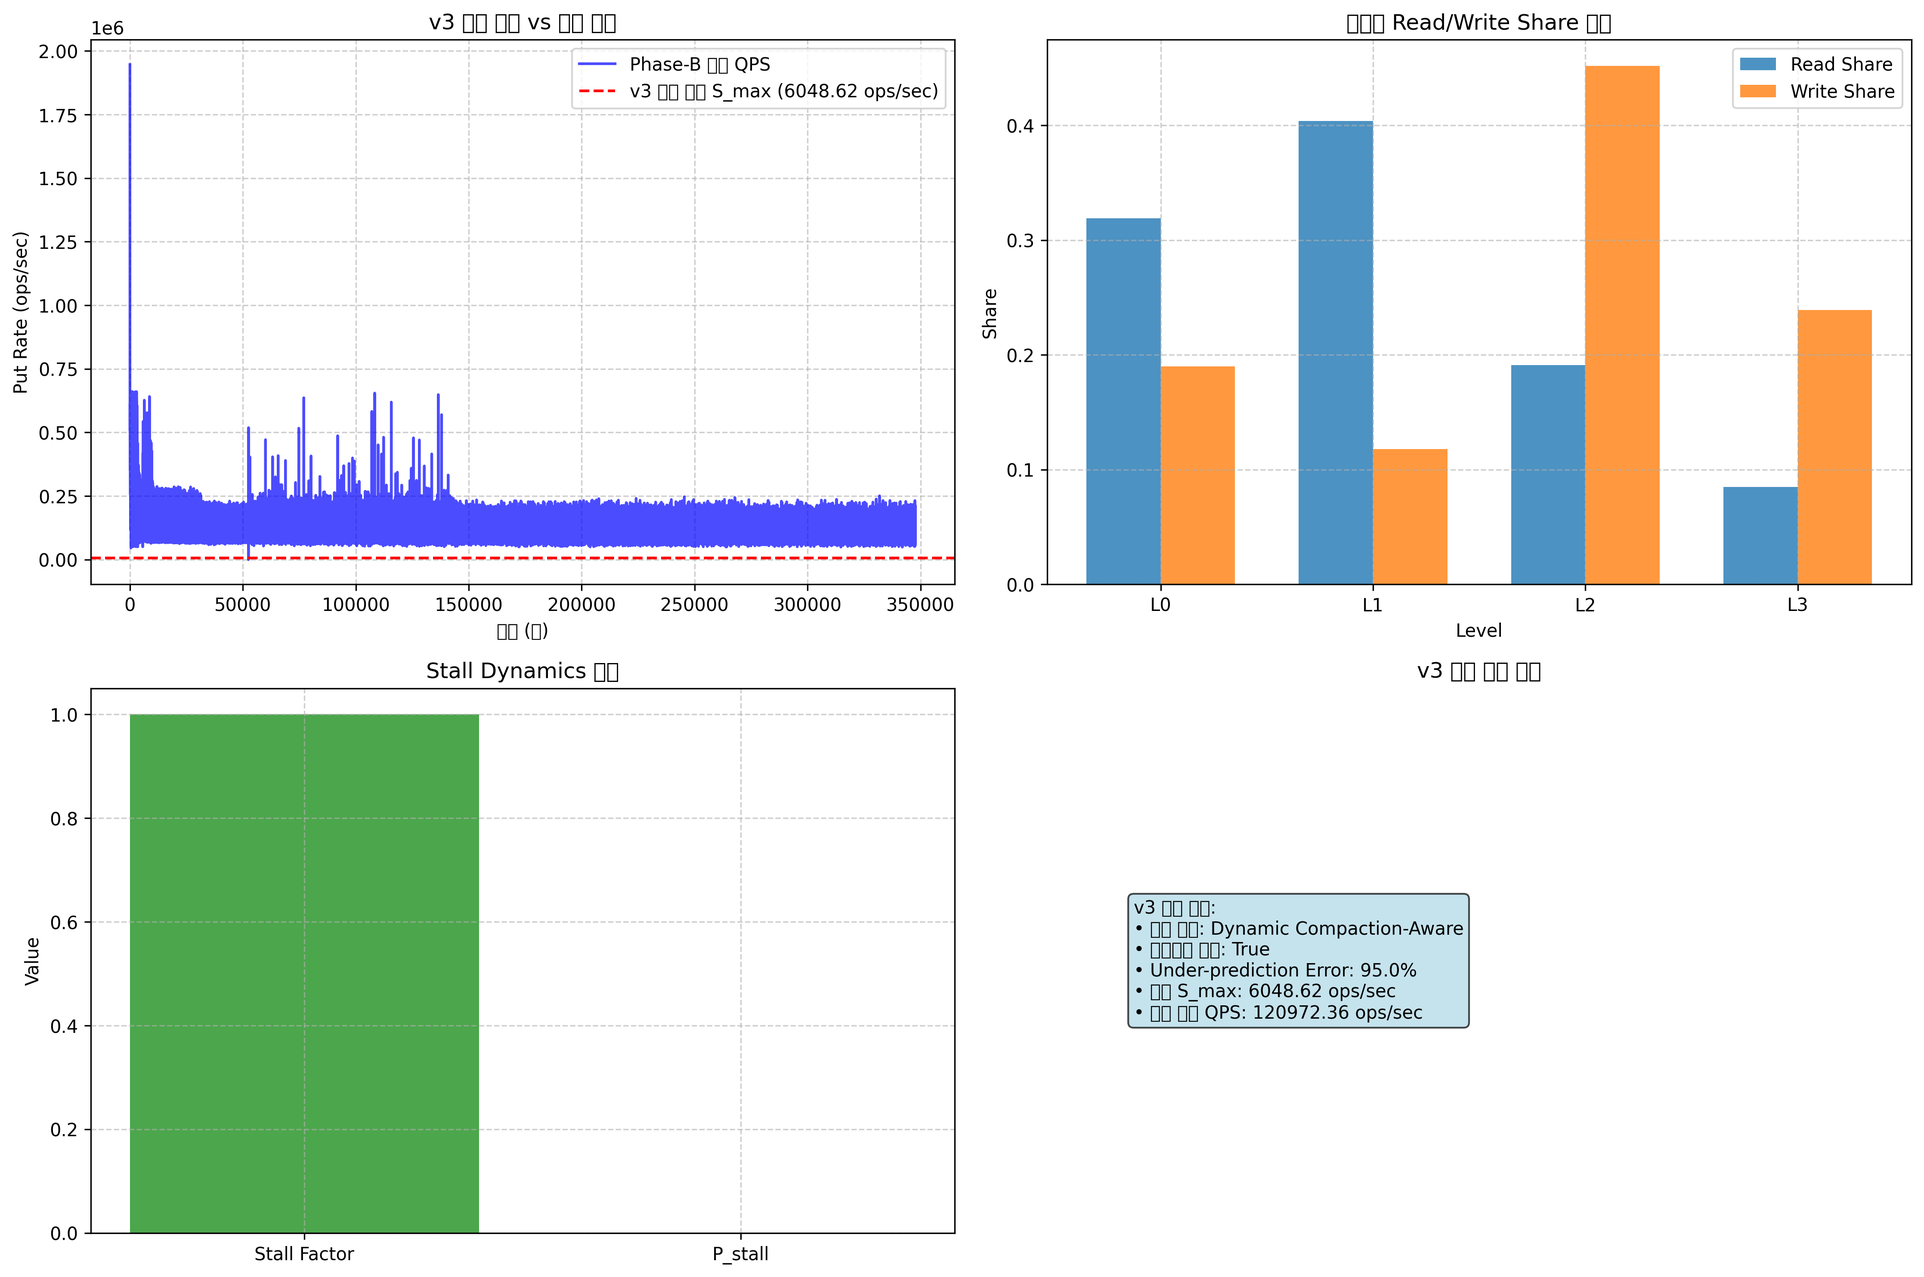
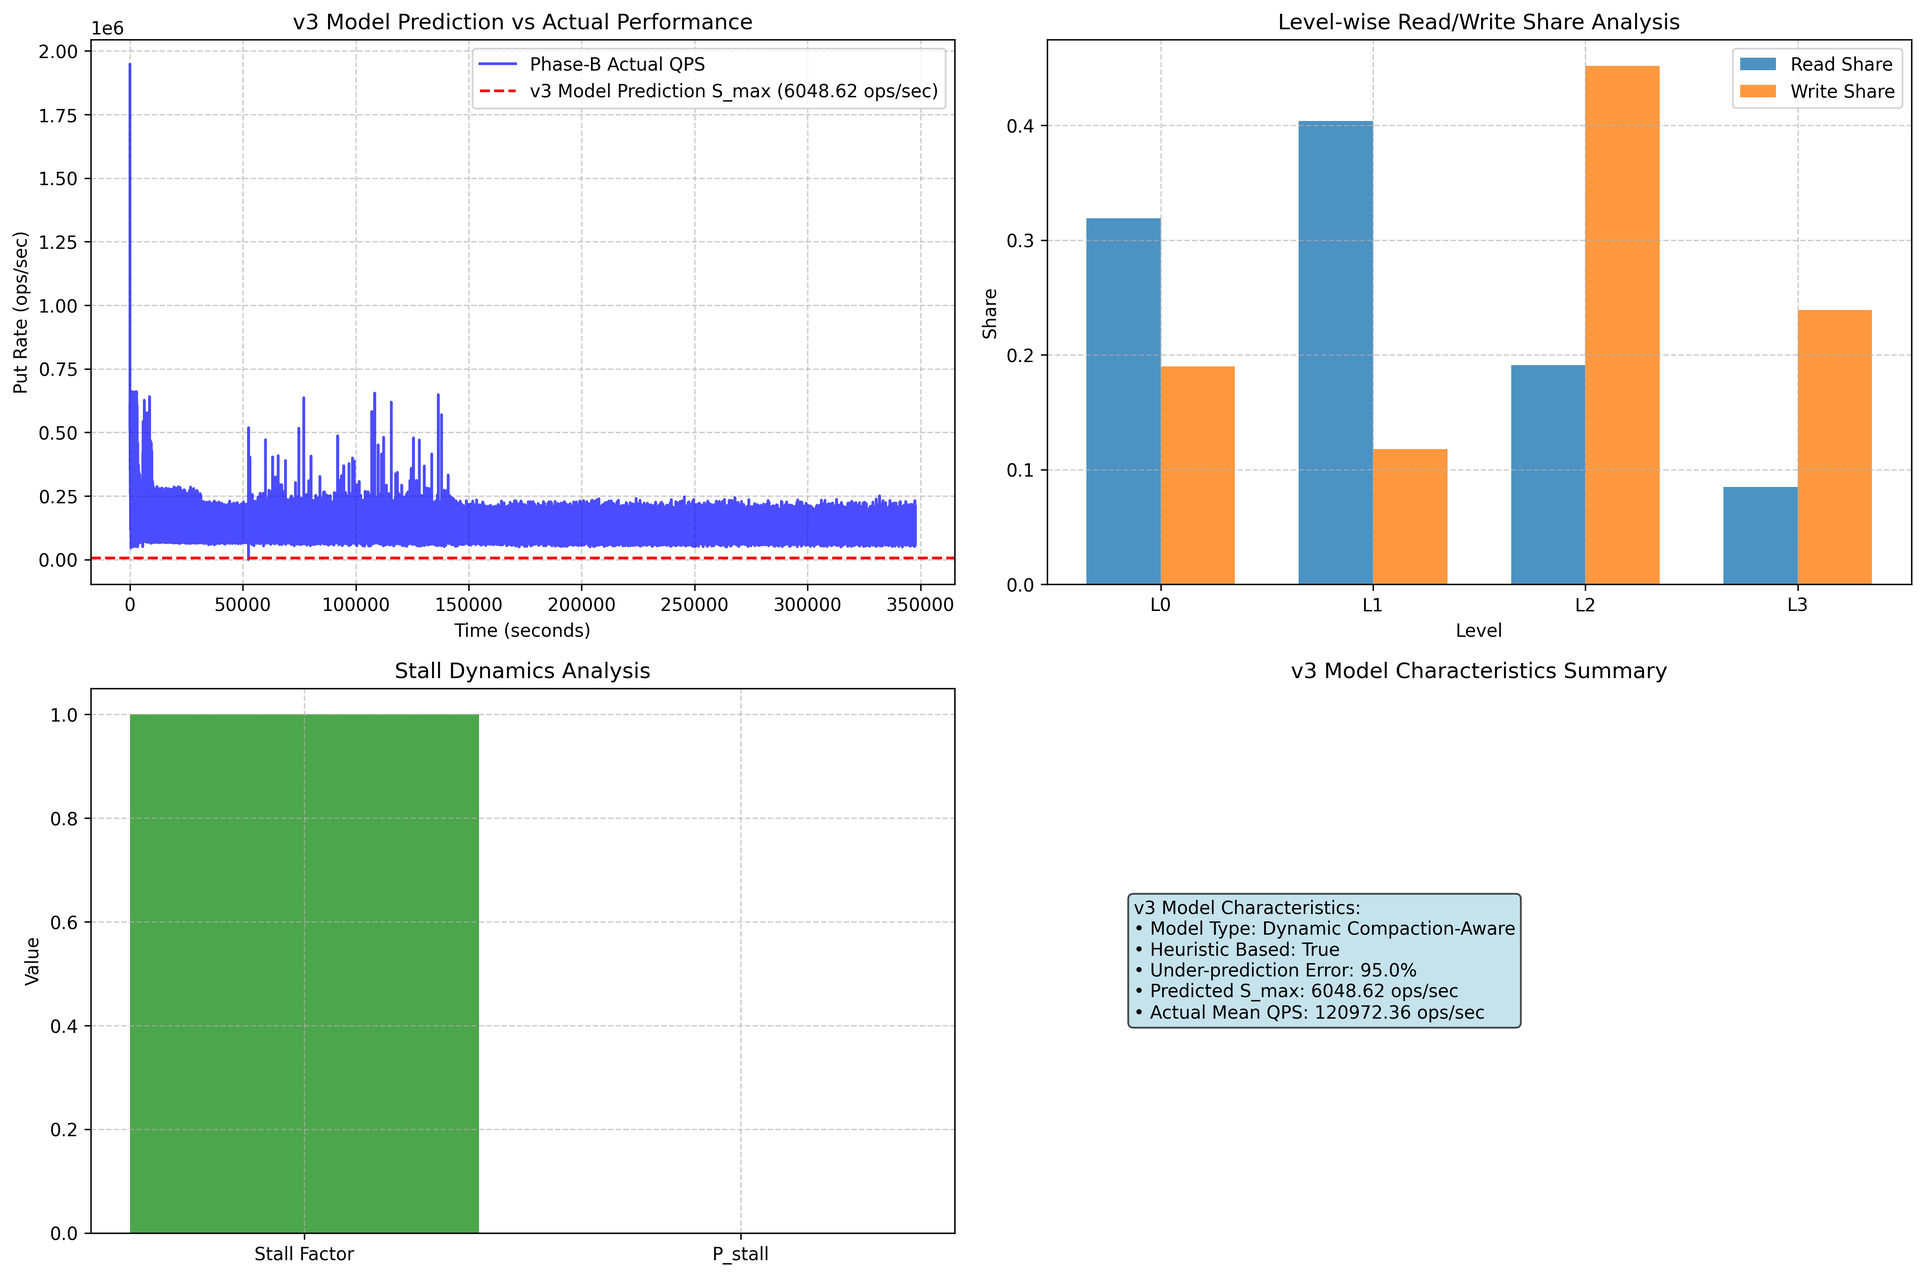
Update model analysis and reports for v1, v2.1, v3, and v5
- Replace Korean titles with English equivalents in analysis scripts for consistency.
- Update analysis timestamps in model reports for v1, v2.1, and v5 to reflect the latest analysis times.
- Modify binary model analysis images to ensure they are up-to-date with the latest results.
- Enhance clarity in visualizations and reports to improve readability and understanding of model performance.

diff --git a/experiments/2025-09-12/phase-c/scripts/analyze_v5_model.py b/experiments/2025-09-12/phase-c/scripts/analyze_v5_model.py
@@ -372,77 +372,77 @@ class V5ModelAnalyzer:
         # 그래프 설정
         plt.style.use('seaborn-v0_8')
         fig, axes = plt.subplots(2, 3, figsize=(18, 12))
-        fig.suptitle('v5 모델 분석 결과 (Real-time Adaptation Model)', fontsize=16, fontweight='bold')
+        fig.suptitle('v5 Model Analysis Results (Real-time Adaptation Model)', fontsize=16, fontweight='bold')
         
-        # 1. Phase-B 성능 트렌드
+        # 1. Phase-B Performance Trend
         ax1 = axes[0, 0]
         ax1.plot(self.phase_b_data['secs_elapsed'], self.phase_b_data['interval_qps'], 
                 alpha=0.7, linewidth=1, color='blue')
         ax1.axhline(y=self.v5_predictions.get('smax', 0), color='red', linestyle='--', 
-                   linewidth=2, label=f'v5 예측: {self.v5_predictions.get("smax", 0):.0f}')
-        ax1.set_xlabel('시간 (초)')
+                   linewidth=2, label=f'v5 Prediction: {self.v5_predictions.get("smax", 0):.0f}')
+        ax1.set_xlabel('Time (seconds)')
         ax1.set_ylabel('QPS')
-        ax1.set_title('Phase-B 성능 트렌드 vs v5 예측')
+        ax1.set_title('Phase-B Performance Trend vs v5 Prediction')
         ax1.legend()
         ax1.grid(True, alpha=0.3)
         
-        # 2. 성능 분포
+        # 2. Performance Distribution
         ax2 = axes[0, 1]
         ax2.hist(self.phase_b_data['interval_qps'], bins=50, alpha=0.7, color='skyblue', edgecolor='black')
         ax2.axvline(x=self.v5_predictions.get('smax', 0), color='red', linestyle='--', 
-                   linewidth=2, label=f'v5 예측: {self.v5_predictions.get("smax", 0):.0f}')
+                   linewidth=2, label=f'v5 Prediction: {self.v5_predictions.get("smax", 0):.0f}')
         ax2.set_xlabel('QPS')
-        ax2.set_ylabel('빈도')
-        ax2.set_title('성능 분포 vs v5 예측')
+        ax2.set_ylabel('Frequency')
+        ax2.set_title('Performance Distribution vs v5 Prediction')
         ax2.legend()
         ax2.grid(True, alpha=0.3)
         
-        # 3. 모델 정확도
+        # 3. Model Accuracy
         ax3 = axes[0, 2]
-        models = ['v5 모델']
+        models = ['v5 Model']
         predictions = [self.v5_predictions.get('smax', 0)]
         actuals = [self.phase_b_data['interval_qps'].mean()]
         
         x = np.arange(len(models))
         width = 0.35
         
-        ax3.bar(x - width/2, predictions, width, label='예측값', color='red', alpha=0.7)
-        ax3.bar(x + width/2, actuals, width, label='실제값', color='blue', alpha=0.7)
-        ax3.set_xlabel('모델')
+        ax3.bar(x - width/2, predictions, width, label='Predicted', color='red', alpha=0.7)
+        ax3.bar(x + width/2, actuals, width, label='Actual', color='blue', alpha=0.7)
+        ax3.set_xlabel('Model')
         ax3.set_ylabel('QPS')
-        ax3.set_title('v5 모델 정확도')
+        ax3.set_title('v5 Model Accuracy')
         ax3.set_xticks(x)
         ax3.set_xticklabels(models)
         ax3.legend()
         ax3.grid(True, alpha=0.3)
         
-        # 4. 적응 속도 분석
+        # 4. Adaptation Speed Analysis
         ax4 = axes[1, 0]
         adaptation_speed = self.v5_predictions.get('adaptation_speed', 0)
-        ax4.bar(['적응 속도 (초)'], [adaptation_speed], color='green', alpha=0.7)
-        ax4.set_ylabel('시간 (초)')
-        ax4.set_title(f'v5 모델 적응 속도\n{adaptation_speed:.2f} 초')
+        ax4.bar(['Adaptation Speed (sec)'], [adaptation_speed], color='green', alpha=0.7)
+        ax4.set_ylabel('Time (seconds)')
+        ax4.set_title(f'v5 Model Adaptation Speed\n{adaptation_speed:.2f} seconds')
         ax4.grid(True, alpha=0.3)
         
-        # 5. v5 모델 특징
+        # 5. v5 Model Features
         ax5 = axes[1, 1]
         v5_features = ['Real-time Adaptation', 'Dynamic Environment', 'Auto Tuning', 'ML Detection']
-        v5_values = [1, 1, 1, 1]  # v5 모델의 특징들
+        v5_values = [1, 1, 1, 1]  # v5 model features
         
         ax5.bar(v5_features, v5_values, color='purple', alpha=0.7)
-        ax5.set_ylabel('지원 여부')
-        ax5.set_title('v5 모델 특징')
+        ax5.set_ylabel('Support Status')
+        ax5.set_title('v5 Model Features')
         ax5.set_xticklabels(v5_features, rotation=45, ha='right')
         ax5.grid(True, alpha=0.3)
         
-        # 6. 오류 분석
+        # 6. Error Analysis
         ax6 = axes[1, 2]
         error_percent = self.results.get('error_percent', 0)
         error_abs = self.results.get('error_abs', 0)
         
-        ax6.bar(['오류율 (%)'], [error_abs], color='orange', alpha=0.7)
-        ax6.set_ylabel('절대 오류율 (%)')
-        ax6.set_title(f'v5 모델 오류 분석\n절대 오류율: {error_abs:.2f}%')
+        ax6.bar(['Error Rate (%)'], [error_abs], color='orange', alpha=0.7)
+        ax6.set_ylabel('Absolute Error Rate (%)')
+        ax6.set_title(f'v5 Model Error Analysis\nAbsolute Error Rate: {error_abs:.2f}%')
         ax6.grid(True, alpha=0.3)
         
         plt.tight_layout()

diff --git a/experiments/2025-09-12/phase-c/scripts/analyze_v3_model_fixed.py b/experiments/2025-09-12/phase-c/scripts/analyze_v3_model_fixed.py
@@ -321,24 +321,24 @@ class V3ModelAnalyzer:
         """v3 모델 분석 결과를 시각화합니다."""
         plt.figure(figsize=(15, 10))
         
-        # 1. 실제 QPS vs 예측 S_max
+        # 1. Actual QPS vs Predicted S_max
         plt.subplot(2, 2, 1)
         if not self.actual_qps_data.empty:
             plt.plot(self.actual_qps_data['secs_elapsed'], self.actual_qps_data['interval_qps'], 
-                    label='Phase-B 실제 QPS', color='blue', alpha=0.7)
+                    label='Phase-B Actual QPS', color='blue', alpha=0.7)
         
         smax_prediction = self.v3_predictions.get('smax')
         if smax_prediction is not None:
             plt.axhline(y=smax_prediction, color='red', linestyle='--', 
-                       label=f'v3 모델 예측 S_max ({smax_prediction:.2f} ops/sec)')
+                       label=f'v3 Model Prediction S_max ({smax_prediction:.2f} ops/sec)')
         
-        plt.title('v3 모델 예측 vs 실제 성능')
-        plt.xlabel('시간 (초)')
+        plt.title('v3 Model Prediction vs Actual Performance')
+        plt.xlabel('Time (seconds)')
         plt.ylabel('Put Rate (ops/sec)')
         plt.grid(True, linestyle='--', alpha=0.6)
         plt.legend()
         
-        # 2. 레벨별 분석
+        # 2. Level-wise Analysis
         plt.subplot(2, 2, 2)
         level_analysis = self.v3_predictions.get('level_analysis', {})
         if level_analysis:
@@ -352,14 +352,14 @@ class V3ModelAnalyzer:
             plt.bar(x - width/2, read_shares, width, label='Read Share', alpha=0.8)
             plt.bar(x + width/2, write_shares, width, label='Write Share', alpha=0.8)
             
-            plt.title('레벨별 Read/Write Share 분석')
+            plt.title('Level-wise Read/Write Share Analysis')
             plt.xlabel('Level')
             plt.ylabel('Share')
             plt.xticks(x, levels)
             plt.legend()
             plt.grid(True, linestyle='--', alpha=0.6)
         
-        # 3. Stall Dynamics 분석
+        # 3. Stall Dynamics Analysis
         plt.subplot(2, 2, 3)
         stall_factor = self.v3_predictions.get('stall_factor', 0)
         p_stall = self.v3_predictions.get('p_stall', 0)
@@ -369,28 +369,28 @@ class V3ModelAnalyzer:
         colors = ['green', 'red']
         
         plt.bar(labels, values, color=colors, alpha=0.7)
-        plt.title('Stall Dynamics 분석')
+        plt.title('Stall Dynamics Analysis')
         plt.ylabel('Value')
         plt.grid(True, linestyle='--', alpha=0.6)
         
-        # 4. 모델 특성 요약
+        # 4. Model Characteristics Summary
         plt.subplot(2, 2, 4)
         model_type = self.v3_predictions.get('model_type', 'Unknown')
         heuristic_based = self.v3_predictions.get('heuristic_based', False)
         under_prediction_error = self.v3_predictions.get('under_prediction_error', 0)
         
-        info_text = f"""v3 모델 특성:
-• 모델 타입: {model_type}
-• 휴리스틱 기반: {heuristic_based}
+        info_text = f"""v3 Model Characteristics:
+• Model Type: {model_type}
+• Heuristic Based: {heuristic_based}
 • Under-prediction Error: {under_prediction_error}%
-• 예측 S_max: {smax_prediction:.2f} ops/sec
-• 실제 평균 QPS: {self.actual_qps_data['interval_qps'].mean():.2f} ops/sec"""
+• Predicted S_max: {smax_prediction:.2f} ops/sec
+• Actual Mean QPS: {self.actual_qps_data['interval_qps'].mean():.2f} ops/sec"""
         
         plt.text(0.1, 0.5, info_text, transform=plt.gca().transAxes, 
                 fontsize=10, verticalalignment='center',
                 bbox=dict(boxstyle="round,pad=0.3", facecolor="lightblue", alpha=0.7))
         plt.axis('off')
-        plt.title('v3 모델 특성 요약')
+        plt.title('v3 Model Characteristics Summary')
         
         plt.tight_layout()
         plt.savefig(f"{self.results_dir}/v3_model_analysis.png", dpi=300, bbox_inches='tight')

diff --git a/experiments/2025-09-12/phase-c/scripts/analyze_v1_model.py b/experiments/2025-09-12/phase-c/scripts/analyze_v1_model.py
@@ -158,58 +158,58 @@ class V1ModelAnalyzer:
         # 그래프 설정
         plt.style.use('seaborn-v0_8')
         fig, axes = plt.subplots(2, 2, figsize=(15, 12))
-        fig.suptitle('v1 모델 분석 결과', fontsize=16, fontweight='bold')
+        fig.suptitle('v1 Model Analysis Results', fontsize=16, fontweight='bold')
         
-        # 1. Phase-B 성능 트렌드
+        # 1. Phase-B Performance Trend
         ax1 = axes[0, 0]
         ax1.plot(self.phase_b_data['secs_elapsed'], self.phase_b_data['interval_qps'], 
                 alpha=0.7, linewidth=1, color='blue')
         ax1.axhline(y=self.v1_predictions.get('smax', 0), color='red', linestyle='--', 
-                   linewidth=2, label=f'v1 예측: {self.v1_predictions.get("smax", 0):.0f}')
-        ax1.set_xlabel('시간 (초)')
+                   linewidth=2, label=f'v1 Prediction: {self.v1_predictions.get("smax", 0):.0f}')
+        ax1.set_xlabel('Time (seconds)')
         ax1.set_ylabel('QPS')
-        ax1.set_title('Phase-B 성능 트렌드 vs v1 예측')
+        ax1.set_title('Phase-B Performance Trend vs v1 Prediction')
         ax1.legend()
         ax1.grid(True, alpha=0.3)
         
-        # 2. 성능 분포
+        # 2. Performance Distribution
         ax2 = axes[0, 1]
         ax2.hist(self.phase_b_data['interval_qps'], bins=50, alpha=0.7, color='skyblue', edgecolor='black')
         ax2.axvline(x=self.v1_predictions.get('smax', 0), color='red', linestyle='--', 
-                   linewidth=2, label=f'v1 예측: {self.v1_predictions.get("smax", 0):.0f}')
+                   linewidth=2, label=f'v1 Prediction: {self.v1_predictions.get("smax", 0):.0f}')
         ax2.set_xlabel('QPS')
-        ax2.set_ylabel('빈도')
-        ax2.set_title('성능 분포 vs v1 예측')
+        ax2.set_ylabel('Frequency')
+        ax2.set_title('Performance Distribution vs v1 Prediction')
         ax2.legend()
         ax2.grid(True, alpha=0.3)
         
-        # 3. 모델 정확도
+        # 3. Model Accuracy
         ax3 = axes[1, 0]
-        models = ['v1 모델']
+        models = ['v1 Model']
         predictions = [self.v1_predictions.get('smax', 0)]
         actuals = [self.phase_b_data['interval_qps'].mean()]
         
         x = np.arange(len(models))
         width = 0.35
         
-        ax3.bar(x - width/2, predictions, width, label='예측값', color='red', alpha=0.7)
-        ax3.bar(x + width/2, actuals, width, label='실제값', color='blue', alpha=0.7)
-        ax3.set_xlabel('모델')
+        ax3.bar(x - width/2, predictions, width, label='Predicted', color='red', alpha=0.7)
+        ax3.bar(x + width/2, actuals, width, label='Actual', color='blue', alpha=0.7)
+        ax3.set_xlabel('Model')
         ax3.set_ylabel('QPS')
-        ax3.set_title('v1 모델 정확도')
+        ax3.set_title('v1 Model Accuracy')
         ax3.set_xticks(x)
         ax3.set_xticklabels(models)
         ax3.legend()
         ax3.grid(True, alpha=0.3)
         
-        # 4. 오류 분석
+        # 4. Error Analysis
         ax4 = axes[1, 1]
         error_percent = self.results.get('error_percent', 0)
         error_abs = self.results.get('error_abs', 0)
         
-        ax4.bar(['오류율 (%)'], [error_abs], color='orange', alpha=0.7)
-        ax4.set_ylabel('절대 오류율 (%)')
-        ax4.set_title(f'v1 모델 오류 분석\n절대 오류율: {error_abs:.2f}%')
+        ax4.bar(['Error Rate (%)'], [error_abs], color='orange', alpha=0.7)
+        ax4.set_ylabel('Absolute Error Rate (%)')
+        ax4.set_title(f'v1 Model Error Analysis\nAbsolute Error Rate: {error_abs:.2f}%')
         ax4.grid(True, alpha=0.3)
         
         plt.tight_layout()

diff --git a/experiments/2025-09-12/phase-c/scripts/analyze_v2_1_model.py b/experiments/2025-09-12/phase-c/scripts/analyze_v2_1_model.py
@@ -225,16 +225,16 @@ v2.1 모델 분석 중 오류가 발생했습니다.
         
         # 시각화 생성
         fig, ((ax1, ax2), (ax3, ax4)) = plt.subplots(2, 2, figsize=(15, 12))
-        fig.suptitle('v2.1 모델 분석 결과', fontsize=16, fontweight='bold')
+        fig.suptitle('v2.1 Model Analysis Results', fontsize=16, fontweight='bold')
         
-        # 1. S_max 예측값
+        # 1. S_max Prediction
         smax = self.v21_predictions['smax']
         ax1.bar(['S_max'], [smax], color='skyblue', alpha=0.7)
-        ax1.set_title('v2.1 모델 S_max 예측')
+        ax1.set_title('v2.1 Model S_max Prediction')
         ax1.set_ylabel('ops/sec')
         ax1.text(0, smax + 1, f'{smax:.2f}', ha='center', va='bottom', fontweight='bold')
         
-        # 2. 레벨별 제약 조건
+        # 2. Level Constraints
         result = self.v21_predictions.get('result', {})
         level_constraints = result.get('level_constraints', {})
         
@@ -243,12 +243,12 @@ v2.1 모델 분석 중 오류가 발생했습니다.
             level_s_values = [level_constraints[level].get('level_s', 0) for level in levels]
             
             ax2.bar(levels, level_s_values, color='lightcoral', alpha=0.7)
-            ax2.set_title('레벨별 S_max 제약 조건')
+            ax2.set_title('Level-wise S_max Constraints')
             ax2.set_xlabel('Level')
             ax2.set_ylabel('ops/sec')
             ax2.set_xticks(levels)
         
-        # 3. 대역폭 효율성
+        # 3. Bandwidth Efficiency
         bandwidth_metrics = {
             'B_write': 138,
             'B_read': 136,
@@ -257,11 +257,11 @@ v2.1 모델 분석 중 오류가 발생했습니다.
         
         ax3.bar(bandwidth_metrics.keys(), bandwidth_metrics.values(), 
                 color=['lightgreen', 'lightblue', 'orange'], alpha=0.7)
-        ax3.set_title('대역폭 효율성 비교')
+        ax3.set_title('Bandwidth Efficiency Comparison')
         ax3.set_ylabel('MB/s')
         ax3.tick_params(axis='x', rotation=45)
         
-        # 4. 요구사항 분석
+        # 4. Requirements Analysis
         requirements = {
             'w_req': result.get('w_req', 0),
             'r_req': result.get('r_req', 0)
@@ -269,8 +269,8 @@ v2.1 모델 분석 중 오류가 발생했습니다.
         
         ax4.bar(requirements.keys(), requirements.values(), 
                 color=['purple', 'brown'], alpha=0.7)
-        ax4.set_title('I/O 요구사항 분석')
-        ax4.set_ylabel('요구사항')
+        ax4.set_title('I/O Requirements Analysis')
+        ax4.set_ylabel('Requirements')
         ax4.tick_params(axis='x', rotation=45)
         
         plt.tight_layout()

diff --git a/experiments/2025-09-12/phase-c/scripts/analyze_v4_model_fixed.py b/experiments/2025-09-12/phase-c/scripts/analyze_v4_model_fixed.py
@@ -531,7 +531,7 @@ class V4ModelAnalyzer:
             plt.legend()
             plt.grid(True, linestyle='--', alpha=0.6)
         
-        # 2. 성능 열화 분석
+        # 2. Performance Degradation Analysis
         plt.subplot(2, 3, 2)
         degradation = device_envelope.get('degradation_analysis', {})
         if degradation:
@@ -544,13 +544,13 @@ class V4ModelAnalyzer:
             plt.ylabel('Degradation (%)')
             plt.grid(True, linestyle='--', alpha=0.6)
         
-        # 3. Phase-B 시간별 성능
+        # 3. Phase-B Time-series Performance
         plt.subplot(2, 3, 3)
         if not self.phase_b_data.empty:
             plt.plot(self.phase_b_data['secs_elapsed'], self.phase_b_data['interval_qps'], 
                     label='Phase-B Actual QPS', color='blue', alpha=0.7)
             
-            # v4 모델 예측값
+            # v4 Model Prediction
             dynamic_simulation = self.v4_predictions.get('dynamic_simulation', {})
             predicted_smax = dynamic_simulation.get('dynamic_smax', 0)
             if predicted_smax > 0:
@@ -583,7 +583,7 @@ class V4ModelAnalyzer:
             plt.xticks(rotation=45)
             plt.grid(True, linestyle='--', alpha=0.6)
         
-        # 5. Dynamic Simulation 성능 추세
+        # 5. Dynamic Simulation Performance Trend
         plt.subplot(2, 3, 5)
         dynamic_simulation = self.v4_predictions.get('dynamic_simulation', {})
         trend = dynamic_simulation.get('performance_trend', {})
@@ -602,7 +602,7 @@ class V4ModelAnalyzer:
             plt.xticks(rotation=45)
             plt.grid(True, linestyle='--', alpha=0.6)
         
-        # 6. 모델 비교 요약
+        # 6. Model Comparison Summary
         plt.subplot(2, 3, 6)
         comparison = self.v4_predictions.get('comparison', {})
         if comparison:

diff --git a/experiments/2025-09-12/phase-c/results/v5_model_report.md b/experiments/2025-09-12/phase-c/results/v5_model_report.md
@@ -3,7 +3,7 @@
 
 ## 📊 모델 정보
 - **모델**: v5 (Real-time Adaptation Model)
-- **분석 일시**: 2025-09-16 21:58:35
+- **분석 일시**: 2025-09-17 02:33:27
 
 ## 📈 성능 결과
 - **예측 S_max**: 50015.95 ops/sec

diff --git a/experiments/2025-09-12/phase-c/results/v1_model_report.md b/experiments/2025-09-12/phase-c/results/v1_model_report.md
@@ -3,7 +3,7 @@
 
 ## 📊 모델 정보
 - **모델**: v1 (기본 S_max 계산)
-- **분석 일시**: 2025-09-17 00:44:08
+- **분석 일시**: 2025-09-17 02:21:24
 
 ## 📈 성능 결과
 - **예측 S_max**: 579.13 ops/sec

diff --git a/experiments/2025-09-12/phase-c/results/v2_1_model_report.md b/experiments/2025-09-12/phase-c/results/v2_1_model_report.md
@@ -22,4 +22,4 @@
 - **p_stall**: 0.1
 
 ## 분석 시간
-2025-09-17 00:44:13
+2025-09-17 02:21:59
